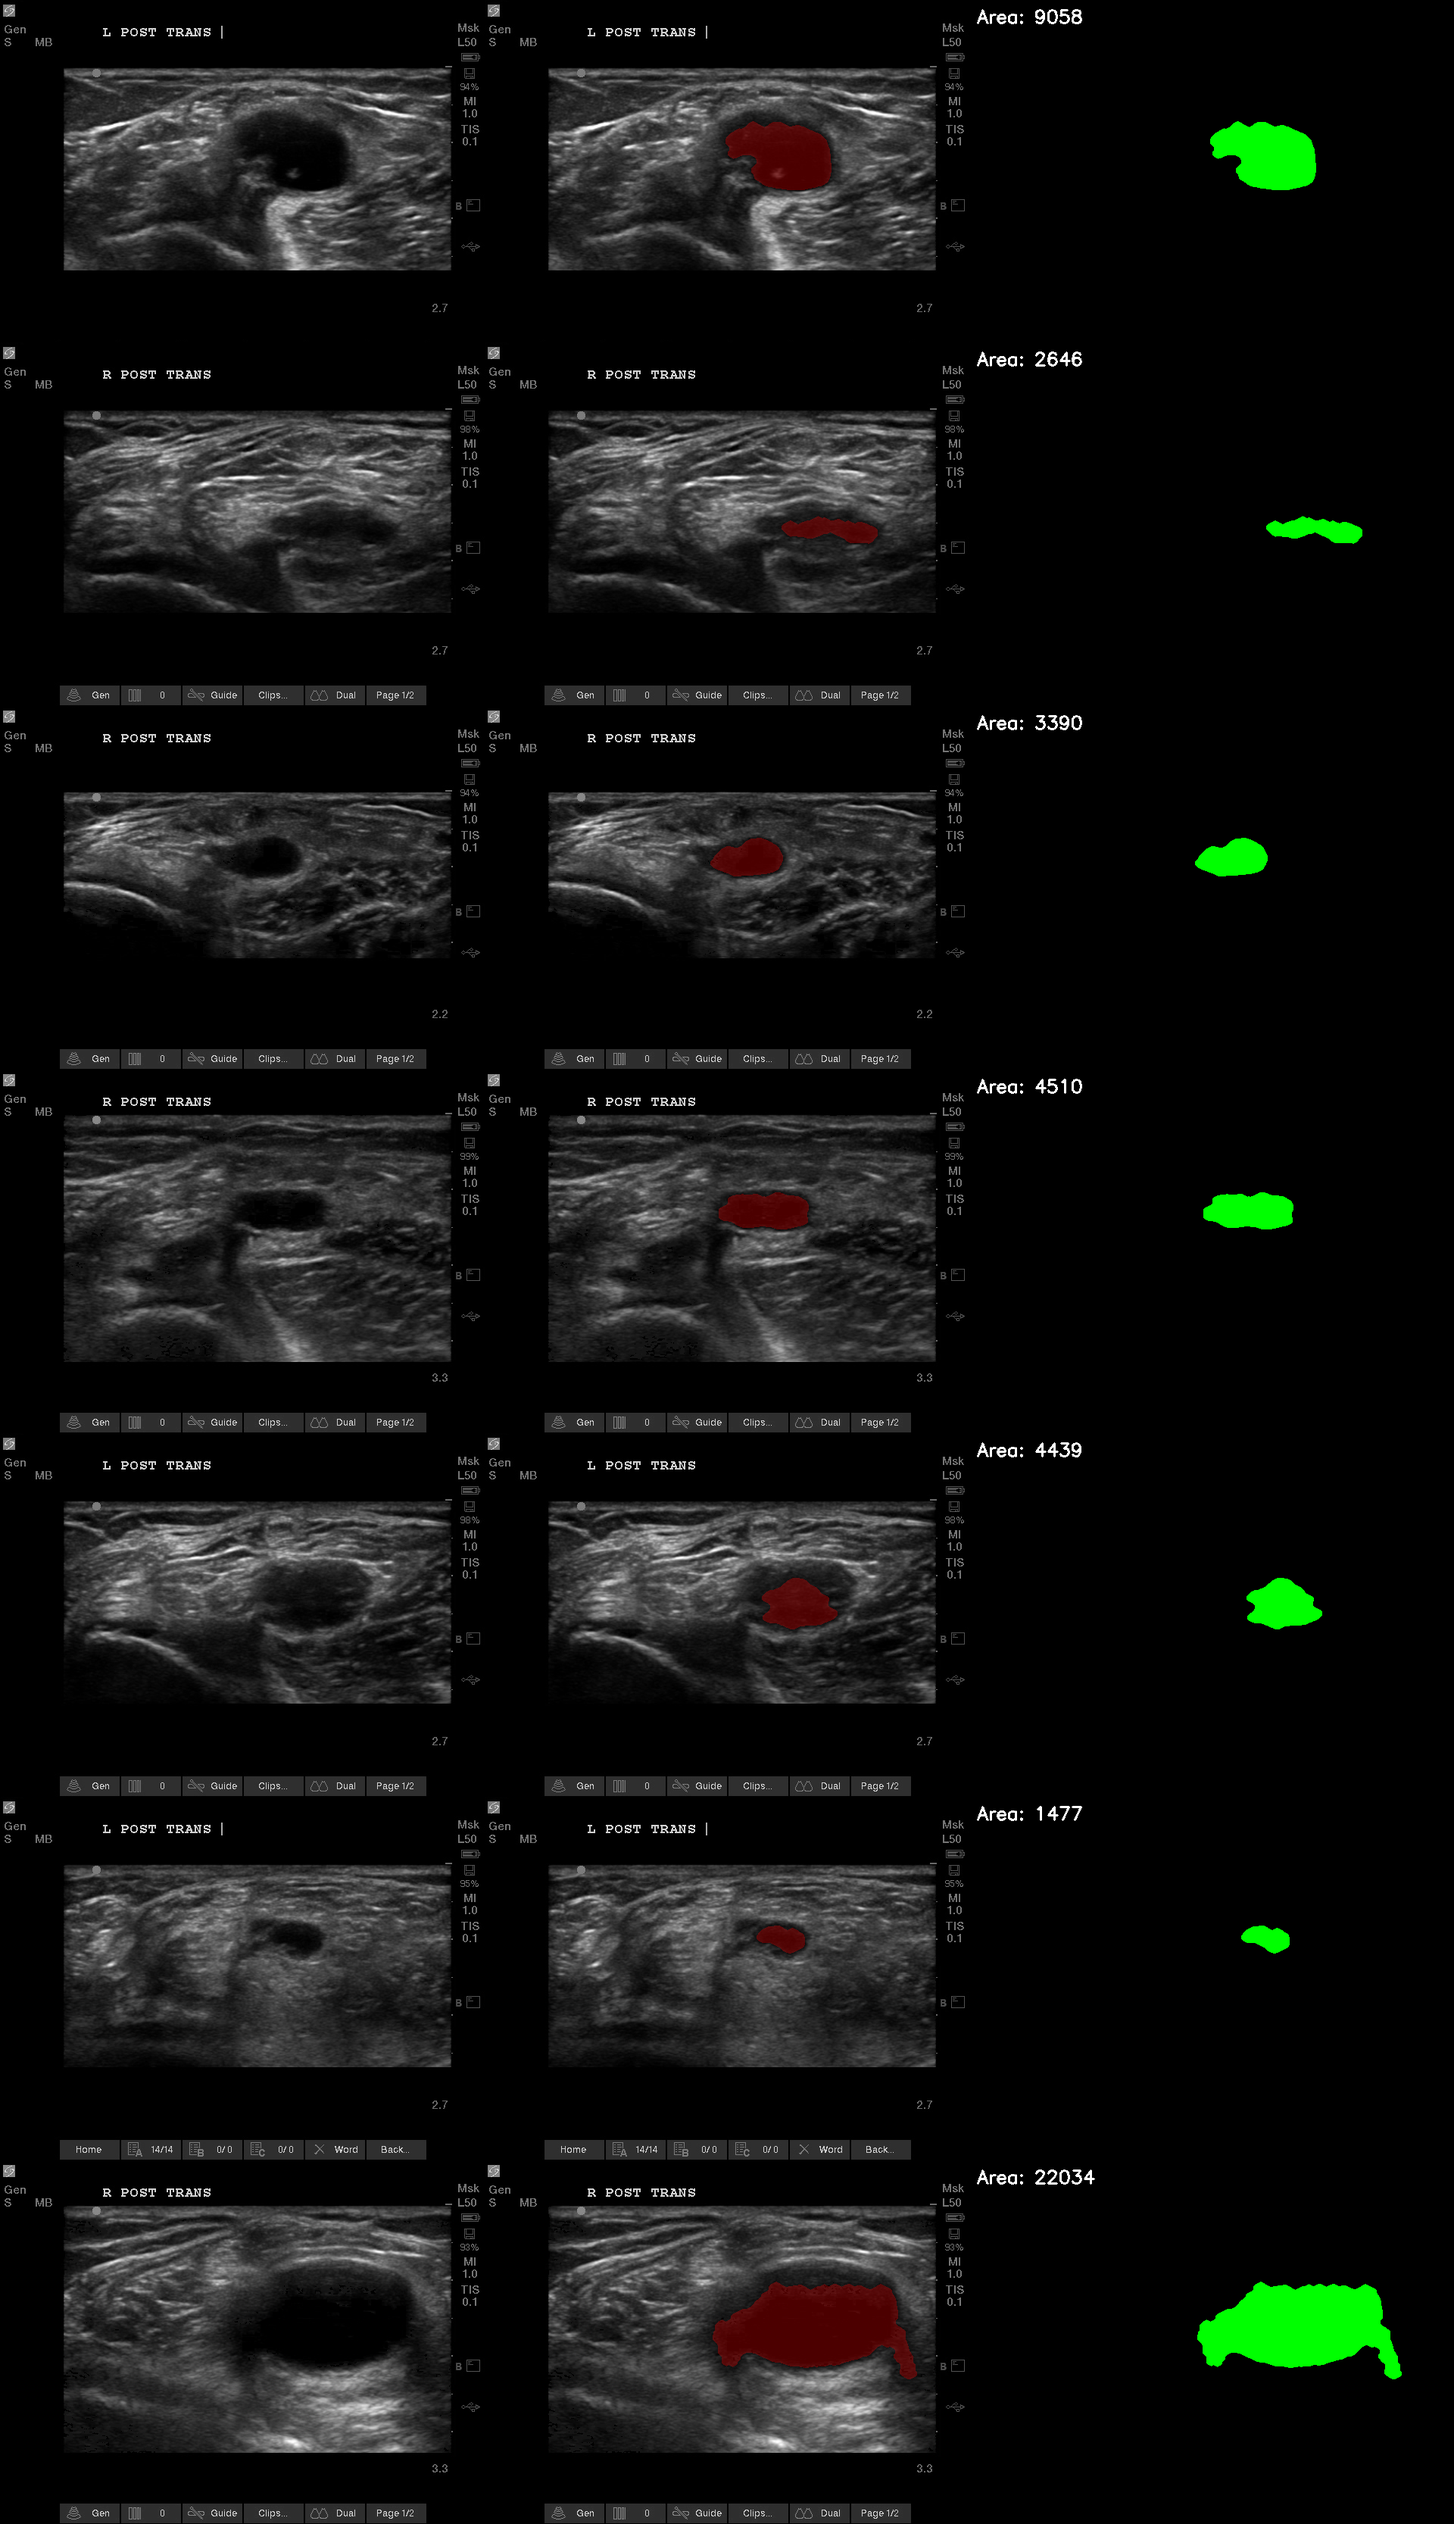
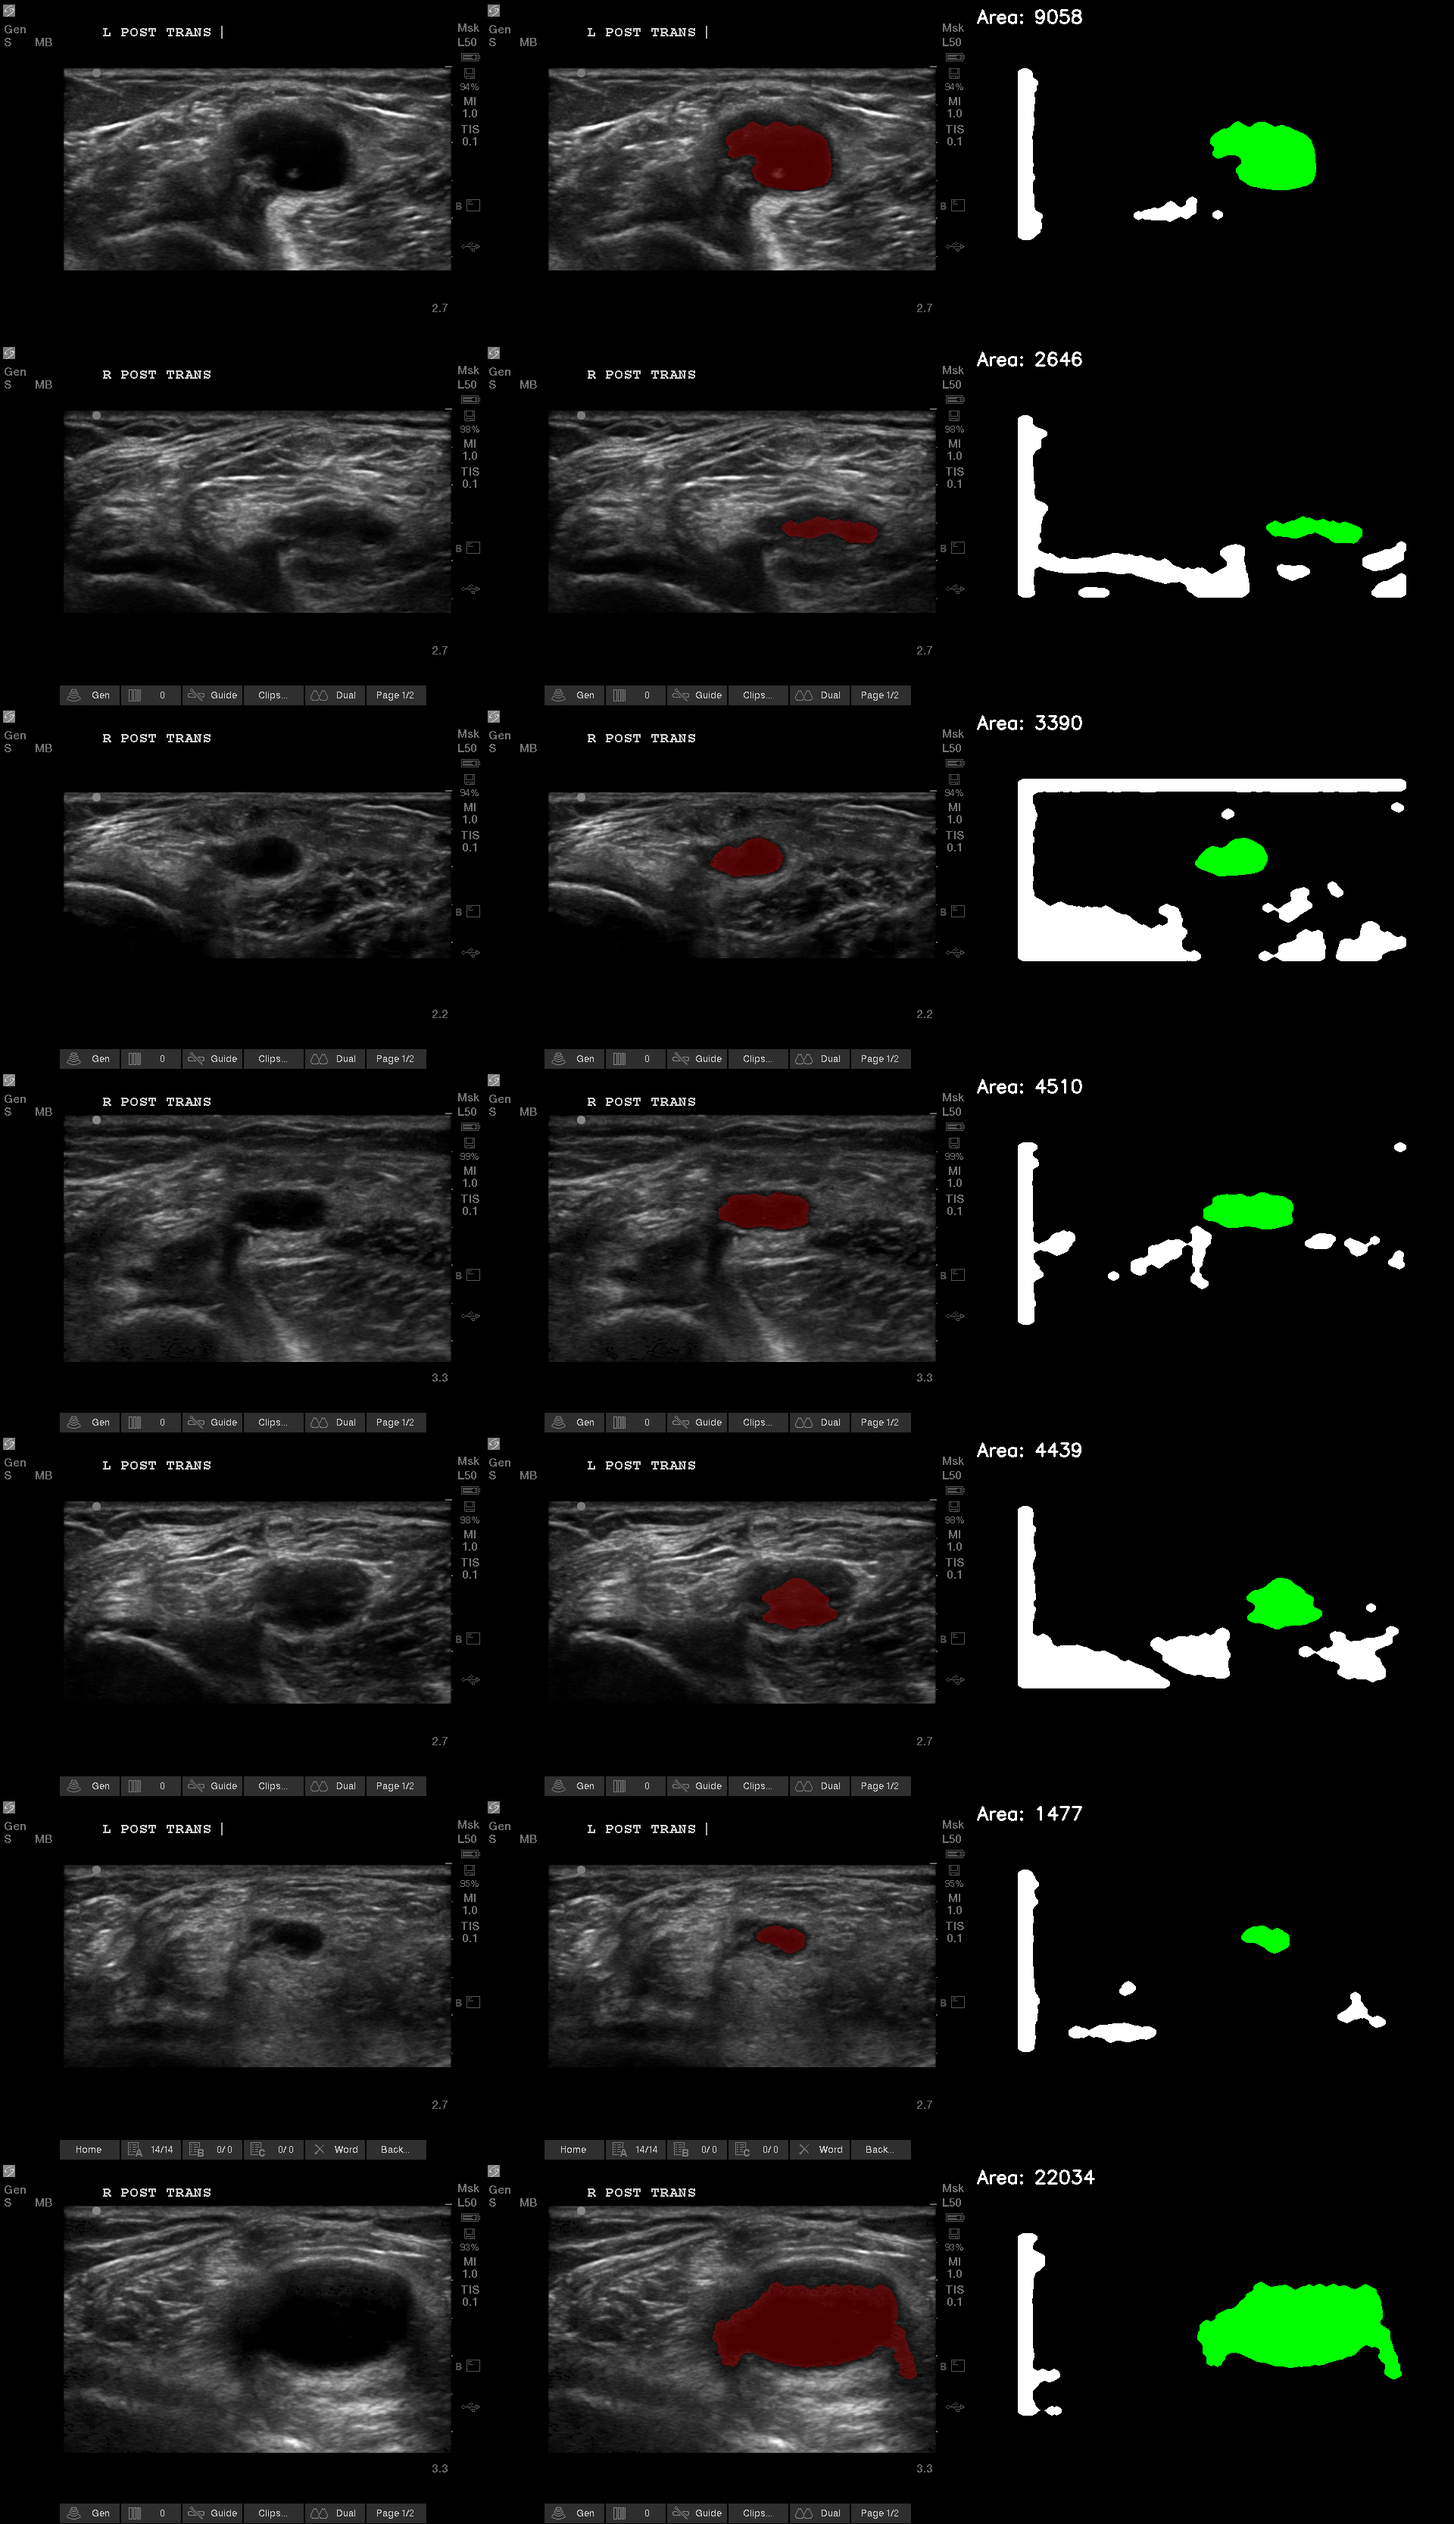
update: cv

diff --git a/cv.py b/cv.py
@@ -278,14 +278,27 @@ if __name__ == "__main__":
         # Blend overlay with original to highlight cyst
         highlighted = cv2.addWeighted(original_color, 0.7, overlay, 0.3, 0)
 
+   
+
+        # Combine original, highlighted, and mask visualization horizontally
+        # Ensure `morph_img` is 3-channel and same size as original for np.hstack
+        morph_vis = morph_img
+        if morph_vis is None:
+            morph_vis = np.zeros_like(original_color)
+        elif morph_vis.ndim == 2:
+            morph_vis = cv2.cvtColor(morph_vis, cv2.COLOR_GRAY2BGR)
+
+        if morph_vis.shape[:2] != original_color.shape[:2]:
+            morph_vis = cv2.resize(morph_vis, (original_color.shape[1], original_color.shape[0]))
+
+
         # Create a colored mask visualization (green area) for standalone mask view
-        mask_color = np.zeros_like(original_color)
+        mask_color = morph_vis.copy()
         mask_color[mask_bool] = (0, 255, 0)
         # text the max_score on the mask_color image
         cv2.putText(mask_color, f"Area: {max_score:.0f}", (10, 30), cv2.FONT_HERSHEY_SIMPLEX, 0.8, (255, 255, 255), 2)
 
-        # Combine original, highlighted, and mask visualization horizontally
-        combined_highlight = np.hstack((original_color, highlighted, morph_img))
+        combined_highlight = np.hstack((original_color, highlighted, mask_color))
 
         # Save the additional highlighted image
         out_path = os.path.join(output_dir, basename)
